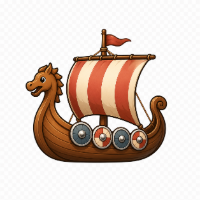
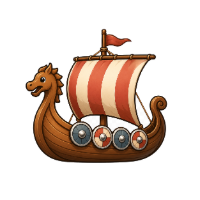
Fix fake-transparency backgrounds and brighten the palette
The source PNGs had a checkerboard pattern baked into opaque pixels
(not real alpha) to simulate transparency, so resizing them faithfully
copied a white/gray square along with each mascot and transit icon.
Flood-fill the actual background out to real alpha for the mascots
and transit icons; nav icons keep their solid squircle art but now
crop their outer padding via a CSS frame instead, since their fill
color is too close to the fake-checkerboard tone to separate by pixel.

Also removed the prefers-color-scheme dark mode entirely — it was
overriding the cream Scandinavian palette with a dark theme whenever
the device/browser was in dark mode, which read as gloomy rather than
fun. The bright palette now always applies, retuned using colors
sampled directly from the icon set (cream/yellow/coral/sage/dusty-blue).

diff --git a/css/style.css b/css/style.css
@@ -1,54 +1,34 @@
 :root {
-  --blue: #2c4a68;
-  --blue-light: #6b8caa;
-  --yellow: #f0b94a;
-  --red: #c96a53;
-  --cream: #f7ead9;
-  --ink: #1e2b3a;
-  --ink-soft: #6b7a89;
-  --line: #e6d9c4;
-  --card: #fffdf9;
-  --booked: #6f8f5c;
+  --blue: #4d7690;
+  --blue-light: #8ba5b6;
+  --yellow: #fdbe48;
+  --red: #e0785c;
+  --cream: #fcf5ee;
+  --ink: #1c2f47;
+  --ink-soft: #6b7280;
+  --line: #ede2d0;
+  --card: #ffffff;
+  --booked: #6e8a5b;
   --booked-bg: #eaf0e2;
-  --planned: #5d7c98;
-  --planned-bg: #e6edf2;
-  --optional: #bf8a35;
-  --optional-bg: #f7ecd8;
+  --planned: #4d7690;
+  --planned-bg: #e6eef1;
+  --optional: #c9871f;
+  --optional-bg: #fcf0db;
   --radius: 18px;
   --safe-bottom: env(safe-area-inset-bottom, 0px);
 
-  --type-transit: #5d7c98;
-  --type-transit-bg: #e6edf2;
+  --type-transit: #4d7690;
+  --type-transit-bg: #e6eef1;
   --type-lodging: #8a76a0;
   --type-lodging-bg: #f0ecf5;
-  --type-dining: #cf7a3f;
-  --type-dining-bg: #f8e8d8;
-  --type-sight: #7c9469;
+  --type-dining: #d9673f;
+  --type-dining-bg: #fbe7df;
+  --type-sight: #6e8a5b;
   --type-sight-bg: #eaf0e2;
   --type-event: #c97b6f;
   --type-event-bg: #f7e6e1;
   --type-logistics: #8a8478;
   --type-logistics-bg: #f0ede6;
-}
-
-@media (prefers-color-scheme: dark) {
-  :root {
-    --cream: #191c22;
-    --ink: #eee7db;
-    --ink-soft: #a29b8e;
-    --line: #333a44;
-    --card: #22262e;
-    --booked-bg: #1e2a1a;
-    --planned-bg: #1c2733;
-    --optional-bg: #2e2618;
-
-    --type-transit-bg: #1c2733;
-    --type-lodging-bg: #262032;
-    --type-dining-bg: #2e2115;
-    --type-sight-bg: #1e2a1a;
-    --type-event-bg: #2c1720;
-    --type-logistics-bg: #232323;
-  }
 }
 
 * { box-sizing: border-box; }
@@ -154,15 +134,25 @@ main#main-content {
   font-family: inherit;
 }
 
-.tab-btn .tab-icon {
+.tab-icon-frame {
   width: 30px;
   height: 30px;
-  object-fit: contain;
+  border-radius: 10px;
+  overflow: hidden;
+  display: block;
   opacity: 0.55;
   transition: opacity 0.15s ease, transform 0.15s ease;
 }
 
-.tab-btn.active .tab-icon {
+.tab-btn .tab-icon {
+  width: 138%;
+  height: 138%;
+  margin: -19%;
+  object-fit: cover;
+  display: block;
+}
+
+.tab-btn.active .tab-icon-frame {
   opacity: 1;
   transform: scale(1.08);
 }
@@ -170,10 +160,6 @@ main#main-content {
 .tab-btn.active {
   color: var(--blue-light);
   font-weight: 700;
-}
-
-@media (prefers-color-scheme: dark) {
-  .tab-btn.active { color: var(--yellow); }
 }
 
 .card {
@@ -333,10 +319,6 @@ main#main-content {
   display: inline-block;
 }
 
-@media (prefers-color-scheme: dark) {
-  .item-links a, .link-btn { color: var(--yellow); }
-}
-
 .fact-bubble {
   display: flex;
   gap: 10px;
@@ -448,10 +430,6 @@ main#main-content {
   margin: 10px 0 2px;
 }
 
-@media (prefers-color-scheme: dark) {
-  .currency-result { color: var(--yellow); }
-}
-
 .stale-note {
   font-size: 0.72rem;
   color: var(--ink-soft);
@@ -475,7 +453,6 @@ main#main-content {
 
 .weather-city .wc-name { font-size: 0.72rem; font-weight: 700; color: var(--ink-soft); }
 .weather-city .wc-temp { font-size: 1.3rem; font-weight: 800; color: var(--blue-light); }
-@media (prefers-color-scheme: dark) { .weather-city .wc-temp { color: var(--yellow); } }
 .weather-city .wc-cond { font-size: 0.68rem; color: var(--ink-soft); }
 
 .pin-list-item {
@@ -520,7 +497,6 @@ main#main-content {
 }
 .reading-item:last-child { border-bottom: none; }
 .reading-item a { color: var(--blue-light); font-weight: 600; text-decoration: none; }
-@media (prefers-color-scheme: dark) { .reading-item a { color: var(--yellow); } }
 .reading-item .source { font-size: 0.75rem; color: var(--ink-soft); }
 
 .toast {

diff --git a/index.html b/index.html
@@ -3,7 +3,7 @@
 <head>
 <meta charset="UTF-8">
 <meta name="viewport" content="width=device-width, initial-scale=1, viewport-fit=cover">
-<meta name="theme-color" content="#2c4a68">
+<meta name="theme-color" content="#4d7690">
 <title>Fjordgeous — Scandinavia 2026</title>
 <link rel="manifest" href="manifest.json">
 <link rel="icon" href="assets/icons/icon-192.png">
@@ -26,19 +26,19 @@
 
 <nav class="tab-bar" id="tab-bar">
   <button class="tab-btn active" data-tab="today">
-    <img class="tab-icon" src="assets/icons/nav-today.png" alt="" /><span>Today</span>
+    <span class="tab-icon-frame"><img class="tab-icon" src="assets/icons/nav-today.png" alt="" /></span><span>Today</span>
   </button>
   <button class="tab-btn" data-tab="itinerary">
-    <img class="tab-icon" src="assets/icons/nav-itinerary.png" alt="" /><span>Itinerary</span>
+    <span class="tab-icon-frame"><img class="tab-icon" src="assets/icons/nav-itinerary.png" alt="" /></span><span>Itinerary</span>
   </button>
   <button class="tab-btn" data-tab="map">
-    <img class="tab-icon" src="assets/icons/nav-map.png" alt="" /><span>Map</span>
+    <span class="tab-icon-frame"><img class="tab-icon" src="assets/icons/nav-map.png" alt="" /></span><span>Map</span>
   </button>
   <button class="tab-btn" data-tab="widgets">
-    <img class="tab-icon" src="assets/icons/nav-widgets.png" alt="" /><span>Widgets</span>
+    <span class="tab-icon-frame"><img class="tab-icon" src="assets/icons/nav-widgets.png" alt="" /></span><span>Widgets</span>
   </button>
   <button class="tab-btn" data-tab="info">
-    <img class="tab-icon" src="assets/icons/nav-info.png" alt="" /><span>Info</span>
+    <span class="tab-icon-frame"><img class="tab-icon" src="assets/icons/nav-info.png" alt="" /></span><span>Info</span>
   </button>
 </nav>
 
